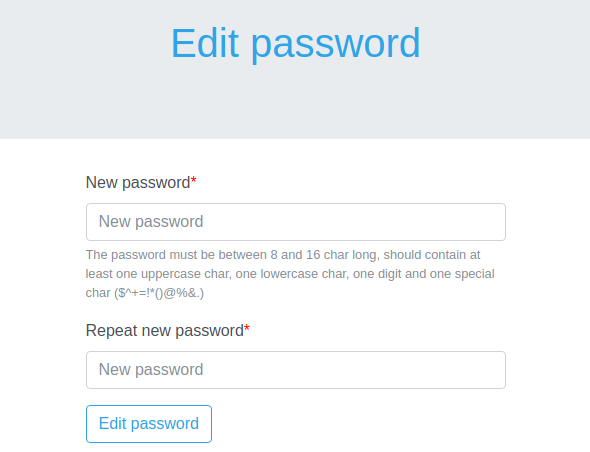
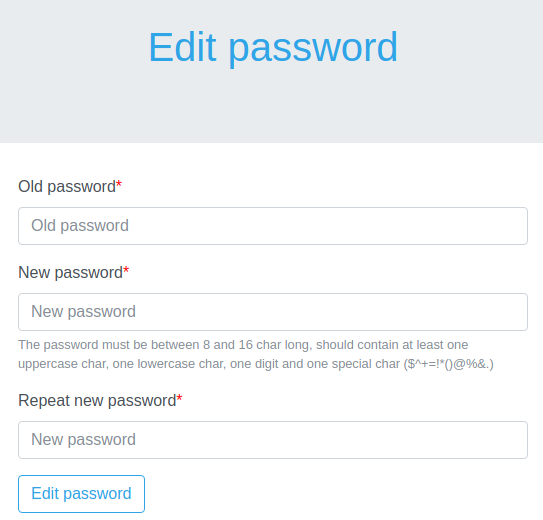
Add old pwd durind editing

diff --git a/site/html/editPasswordTreat.php b/site/html/editPasswordTreat.php
@@ -10,6 +10,7 @@ if (!authentication()) {
 
 
 // Définition du nom des inputs reçues
+const IN_PASSWORD_OLD = 'inputPasswordOld';
 const IN_PASSWORD = 'inputPassword';
 const IN_PASSWORD_REPEAT = 'inputPasswordRepeat';
 
@@ -23,12 +24,27 @@ if (!isset($_POST['token']) || $hmac != $_POST['token']) {
 }
 
 // Vérification de l'entrée
-if(isset($_POST[IN_PASSWORD]) && $_POST[IN_PASSWORD] != "" &&
+if (isset($_POST[IN_PASSWORD_OLD]) && $_POST[IN_PASSWORD_OLD] != "" &&
+    isset($_POST[IN_PASSWORD]) && $_POST[IN_PASSWORD] != "" &&
     isset($_POST[IN_PASSWORD_REPEAT]) && $_POST[IN_PASSWORD_REPEAT] != "") {
 
     // Récupération des identifiants entrés
-    $pwd = $_POST['inputPassword'];
-    $pwdRepeat = $_POST['inputPasswordRepeat'];
+    $oldPwd = $_POST[IN_PASSWORD_OLD];
+    $pwd = $_POST[IN_PASSWORD];
+    $pwdRepeat = $_POST[IN_PASSWORD_REPEAT];
+
+    // Appel de la classe de connexion
+    require ('class/dbConnection.php');
+    $dbConnection = new dbConnection();
+    session_start();
+
+    $username = $_SESSION['Login'];
+    // Récupération des utilisateurs dans la bdd
+    $user = $dbConnection->getUser($username);
+    if (!password_verify($oldPwd, $user['password'])){
+        // Redirection vers la page précédente avec un message d'erreur
+        redirectError("The old password is false", VIEW_ERROR);
+    }
 
     // Test si le mot de passe remplit les critères d'acceptation
     if (!verifyPassword($pwd)) {
@@ -37,13 +53,8 @@ if(isset($_POST[IN_PASSWORD]) && $_POST[IN_PASSWORD] != "" &&
     }
 
     if($pwd == $pwdRepeat){
-        // Appel de la classe de connexion
-        require ('class/dbConnection.php');
-
         $pwd = password_hash($pwd, PASSWORD_BCRYPT);
 
-        $dbConnection = new dbConnection();
-        session_start();
         $dbConnection->editPassword(sanitizeInputText($_SESSION['Login']), $pwd);
 
         // Tout a bien fonctionné

diff --git a/site/html/editPassword.php b/site/html/editPassword.php
@@ -30,6 +30,13 @@
             <!-- Formulaire de modification de mot de passe -->
             <form action="./editPasswordTreat.php" method="post">
                 <div class="form-group">
+                    <label for="inputPasswordOld" class="col-lg-8">Old password<span style="color: red">*</span></label>
+                    <div class="col-lg-12">
+                        <input type="password" class="form-control form-connexion-input" id="inputPasswordOld" name="inputPasswordOld" placeholder="Old password">
+                    </div>
+                </div>
+
+                <div class="form-group">
                     <label for="inputPassword" class="col-lg-8">New password<span style="color: red">*</span></label>
                     <div class="col-lg-12">
                         <input type="password" class="form-control form-connexion-input" id="inputPassword" name="inputPassword" placeholder="New password">

diff --git a/README.md b/README.md
@@ -90,7 +90,7 @@ Vous pouvez directement changer de mot de passe:
 
 ![](images/edit.png)
 
-Il faut simplement entrer un nouveau mot de passe et le répeter une fois (le mot de passe doit contenir au moins une minuscule, une majuscule, un chiffre, un caractère spécial et doit faire entre 8 et 16 caractères):
+Il faut indiquer son ancien mot de passe, entrer un nouveau mot de passe et le répeter une fois (le mot de passe doit contenir au moins une minuscule, une majuscule, un chiffre, un caractère spécial et doit faire entre 8 et 16 caractères):
 
 ![](images/password.png)
 
